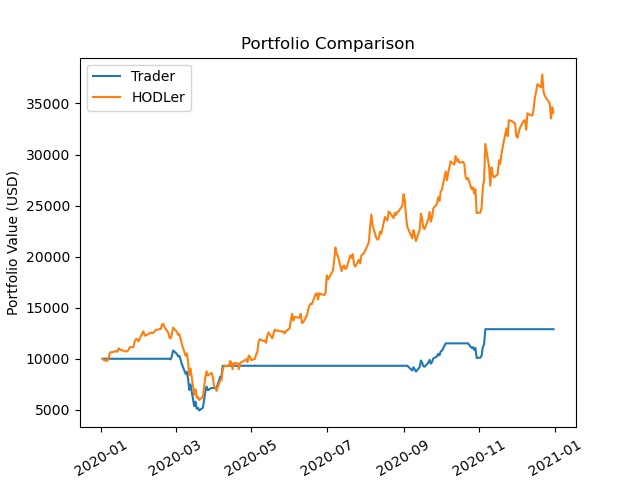
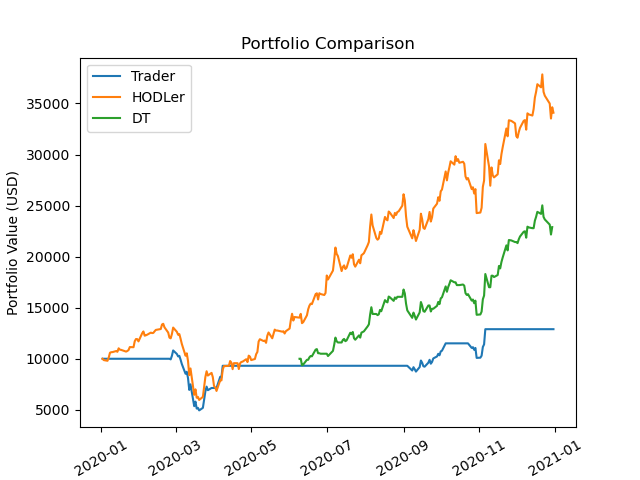
dt model

diff --git a/alchemist/src/strategies/model.py b/alchemist/src/strategies/model.py
@@ -14,11 +14,14 @@ from sklearn.ensemble import RandomForestRegressor
 from sklearn.tree import DecisionTreeRegressor
 from sklearn.metrics import r2_score, mean_absolute_error, mean_squared_error
 
+import numpy as np
+
 class SKTrader(Trader):
 
-    def __init__(self, model, name: str, impact: float=0.0):
+    def __init__(self, model, name: str, impact: float=0.0, window: int=7):
         super().__init__(name, impact)
         self.model = model
+        self.window = window
 
     def train(self, symbol: str, start_date: datetime=datetime(2019, 1, 1), end_date: datetime=datetime(2019, 12, 31), start_value: float=10000):
         """Train Model
@@ -35,23 +38,23 @@ class SKTrader(Trader):
         [symbol], start_date, end_date, return_dict=False, invalidate_cache=False)
 
         # Create instance of Price/SMA calculator
-        price_by_sma = PriceBySMA(name='Price_by_SMA_15d', window_size=15, price_column_name=ADJUSTED_CLOSE)
+        price_by_sma = PriceBySMA(name=f'Price_by_SMA_{self.window}d', window_size=self.window, price_column_name=ADJUSTED_CLOSE)
         daily_market_data = price_by_sma.calculate(daily_market_data, merge_with_market_data=True)
 
         # Create instance of BBP calculator
-        bbp = BBP(name='bbp_15d', window_size=15, price_column_name=ADJUSTED_CLOSE)
+        bbp = BBP(name=f'bbp_{self.window}d', window_size=self.window, price_column_name=ADJUSTED_CLOSE)
         data = bbp.calculate(daily_market_data, merge_with_market_data=True)[symbol]
 
-        data['ror_7d'] = data[ADJUSTED_CLOSE].pct_change(periods=7)
+        data['daily_ror'] = data[ADJUSTED_CLOSE].pct_change(periods=1)
 
-        data['ror_7d_future_true'] = data['ror_7d'].shift(-7)
+        data['daily_ror_future_true'] = data['daily_ror'].shift(-1)
 
         data = data.dropna()
 
-        self.model.fit(data[[ADJUSTED_CLOSE, 'Price_by_SMA_15d', 'bbp_15d']], data['ror_7d_future_true'])
+        self.model.fit(data[[ADJUSTED_CLOSE, f'Price_by_SMA_{self.window}d', f'bbp_{self.window}d']], data['daily_ror_future_true'])
 
-        pred_returns_train = self.model.predict(data[[ADJUSTED_CLOSE, 'Price_by_SMA_15d', 'bbp_15d']])
-        data['ror_7d_future_pred'] = pred_returns_train
+        pred_returns_train = self.model.predict(data[[ADJUSTED_CLOSE, f'Price_by_SMA_{self.window}d', f'bbp_{self.window}d']])
+        data['daily_ror_future_pred'] = pred_returns_train
 
     
     def trade(self, symbol: str, start_date: datetime=datetime(2020, 1, 1), end_date: datetime=datetime(2020, 12, 31), start_value: float=10000) -> DataFrame:
@@ -61,21 +64,21 @@ class SKTrader(Trader):
         [symbol], start_date, end_date, return_dict=False, invalidate_cache=False)
 
         # Create instance of Price/SMA calculator
-        price_by_sma = PriceBySMA(name='Price_by_SMA_15d', window_size=15, price_column_name=ADJUSTED_CLOSE)
+        price_by_sma = PriceBySMA(name=f'Price_by_SMA_{self.window}d', window_size=self.window, price_column_name=ADJUSTED_CLOSE)
         daily_market_data = price_by_sma.calculate(daily_market_data, merge_with_market_data=True)
 
         # Create instance of BBP calculator
-        bbp = BBP(name='bbp_15d', window_size=15, price_column_name=ADJUSTED_CLOSE)
+        bbp = BBP(name=f'bbp_{self.window}d', window_size=self.window, price_column_name=ADJUSTED_CLOSE)
         data = bbp.calculate(daily_market_data, merge_with_market_data=True)[symbol]
 
-        data['ror_7d'] = data[ADJUSTED_CLOSE].pct_change(periods=7)
-        data['ror_7d_future_true'] = data['ror_7d'].shift(-7)
+        data['daily_ror'] = data[ADJUSTED_CLOSE].pct_change(periods=1)
+        data['daily_ror_future_true'] = data['daily_ror'].shift(-1)
 
         data = data.dropna()
 
-        pred_returns = self.model.predict(data[[ADJUSTED_CLOSE, 'Price_by_SMA_15d', 'bbp_15d']])
+        pred_returns = self.model.predict(data[[ADJUSTED_CLOSE, f'Price_by_SMA_{self.window}d', f'bbp_{self.window}d']])
 
-        data['ror_7d_future_pred'] = pred_returns
+        data['daily_ror_future_pred'] = pred_returns
 
         trades = pd.DataFrame(0, index=data.index, columns=[symbol, 'USD'])
 
@@ -86,13 +89,14 @@ class SKTrader(Trader):
         current_units = 0
         
         for td in trading_days:
-
+            
+            pred_ror = data.loc[td, 'daily_ror_future_pred']
             price = data.loc[td, ADJUSTED_CLOSE]
 
             if position_status == 'close':
 
                 # BUY
-                if (data.loc[td, 'Price_by_SMA_15d'] < 0.95) | (data.loc[td, 'bbp_15d'] < 0.2):
+                if pred_ror > 0.0:
                     units = current_usd/price
                     order_value = price * units
 
@@ -108,7 +112,7 @@ class SKTrader(Trader):
             elif position_status == 'open':
                 
                 # SELL
-                if (data.loc[td, 'Price_by_SMA_15d'] > 1.1) | (data.loc[td, 'bbp_15d'] >= 1.1):
+                if pred_ror < 0.0:
                     order_value = price * current_units
 
                     trades.loc[td, symbol] = -1*current_units
@@ -125,9 +129,9 @@ class SKTrader(Trader):
 
 if __name__ == '__main__':
     
-    model = DecisionTreeRegressor(max_depth=15)
+    model = DecisionTreeRegressor(max_depth=10)
+    
     dt_trader = SKTrader(model, 'DT', impact=0.0)
-    dt_trader.train('SQ')
-    dt_trader.trade('SQ')
 
-    sdf
+    dt_trader.train('SQ', start_date=datetime(2020, 4, 1), end_date=datetime(2020, 6, 30))
+    trades = dt_trader.trade('SQ', start_date=datetime(2020, 7, 1), end_date=datetime(2020, 12, 31))

diff --git a/alchemist/src/sim/evaluate.py b/alchemist/src/sim/evaluate.py
@@ -1,5 +1,6 @@
 
 from alchemist.src.strategies.basic import BasicTrader, HODLer
+from alchemist.src.strategies.model import SKTrader
 from alchemist.src.sim.marketsim import MarketSim
 import numpy as np
 import os
@@ -11,6 +12,11 @@ from alchemist.src.etl.data_loader import load_market_data
 import matplotlib.pyplot as plt
 
 from pandas.core.frame import DataFrame
+
+from sklearn.ensemble import RandomForestRegressor
+from sklearn.tree import DecisionTreeRegressor
+
+from datetime import datetime
 
 def evaluate_portfolio(portfolio: DataFrame) -> (float, float, float, float):
 
@@ -47,6 +53,10 @@ def print_portfolio_metrics(portfolio: DataFrame):
     print(f'Mean Daily Return: {mean_daily_return}')
     print(f'Std Daily Return: {std_daily_return}')
     print(f'Sharpe Ratio (Annualized): {sharpe_ratio}')
+    
+    print(f'Start: {portfolio.values[0]}')
+    print(f'End: {portfolio.values[-1]}')
+    print(f'$Profit: {portfolio.values[-1] - portfolio.values[0]}')
 
 def plot_trades(portfolio: DataFrame, trades: DataFrame, title: str, fp: str=f'{os.environ["PYTHONPATH"]}/alchemist/src/sim/graphs'):
 
@@ -82,7 +92,7 @@ def plot_trades(portfolio: DataFrame, trades: DataFrame, title: str, fp: str=f'{
     
     plt.plot(price.index, price.values, label='price')
 
-    plt.title(f'{symbol} Trades')
+    plt.title(title)
     plt.xlabel('Date')
     plt.ylabel('Price (USD)')
     plt.xticks(rotation=30)
@@ -107,11 +117,16 @@ def plot_portfolios(portfolio: DataFrame, title: str, fp: str=f'{os.environ["PYT
     plt.close()
         
 if __name__ == '__main__':
-    
+
     # Trading Decisions 
     trader = BasicTrader('Basic')
-    trades = trader.trade(symbol='SQ')    
+    trades = trader.trade(symbol='SQ')
 
+    model = DecisionTreeRegressor(max_depth=5)
+    dt_trader = SKTrader(model, 'DT', impact=0.0)
+    dt_trader.train('SQ', start_date=datetime(2020, 3, 1), end_date=datetime(2020, 5, 30))
+    dt_trades = dt_trader.trade('SQ', start_date=datetime(2020, 6, 1), end_date=datetime(2020, 12, 31))
+    
     hodler = HODLer('HODL')
     hodler_trades = hodler.trade(symbol='SQ')
 
@@ -119,6 +134,7 @@ if __name__ == '__main__':
     sim = MarketSim()
     portfolio_trader = sim.calculate_portfolio(trades)
     portfolio_hodler = sim.calculate_portfolio(hodler_trades)
+    portfolio_dt = sim.calculate_portfolio(dt_trades)
 
     # Evaluate
     print('Basic Trader')
@@ -129,13 +145,23 @@ if __name__ == '__main__':
     print('HODLer')
     print_portfolio_metrics(portfolio_hodler['USD_Total'])
 
+    print('..............................................')
+
+    print('DT')
+    print_portfolio_metrics(portfolio_dt['USD_Total'])
+
+    print('..............................................')
+
     portfolios = {
         'Trader': portfolio_trader['USD_Total'],
-        'HODLer': portfolio_hodler['USD_Total']
+        'HODLer': portfolio_hodler['USD_Total'],
+        'DT': portfolio_dt['USD_Total']
     }
 
     plot_portfolios(portfolios, title='compare')
 
-    plot_trades(portfolio_trader, trades, title='Trades')
+    plot_trades(portfolio_trader, trades, title='Basic Trades')
+    plot_trades(portfolio_dt, dt_trades, title='DT Trades')
+
 
 

diff --git a/alchemist/src/strategies/basic.py b/alchemist/src/strategies/basic.py
@@ -15,7 +15,7 @@ class HODLer(Trader):
     def __init__(self, name: str, impact: float=0.0):
         super().__init__(name, impact)
     
-    def trade(self, symbol: str, start_date: datetime=(2020, 1, 1), end_date: datetime=(2020, 12, 31), start_value: float=10000) -> DataFrame:
+    def trade(self, symbol: str, start_date: datetime=datetime(2020, 1, 1), end_date: datetime=datetime(2020, 12, 31), start_value: float=10000) -> DataFrame:
 
         # Loading daily market data
         data = load_market_data([symbol], start_date, end_date, return_dict=False, invalidate_cache=False)[symbol]

diff --git a/alchemist/src/strategies/trader.py b/alchemist/src/strategies/trader.py
@@ -8,7 +8,7 @@ from pandas.core.frame import DataFrame
 
 class Trader(ABC):
 
-    def __init__(self, name: str, impact: float=0.0):
+    def __init__(self, name: str, impact: float=0.0, window: int=7):
         """Init for Abstract Trader 
 
         Args:
@@ -16,6 +16,7 @@ class Trader(ABC):
         """
         self.name = name
         self.impact = impact
+        self.window = window
     
     @abstractmethod
     def trade(self, symbol: str, start_date: datetime, end_date: datetime, start_value: float) -> DataFrame:
